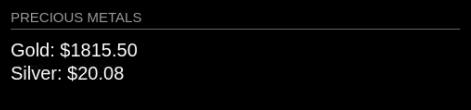
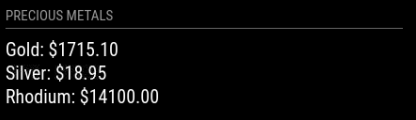
Add support for commodities

Changed region(s): [[0.0, 0.3273, 0.4062, 0.8727], [0.0, 0.0818, 1.0, 0.2727]]

diff --git a/MMM-PreciousMetals.js b/MMM-PreciousMetals.js
@@ -14,8 +14,11 @@ Module.register("MMM-PreciousMetals", {
 	},
 	
 	start: function() {
-		this.url = 'https://api.metals.live/v1/spot';
-        this.prices = [];
+		this.baseUrl = 'https://api.metals.live';
+		this.metalsUrl = '/v1/spot';
+		this.commoditiesUrl = '/v1/spot/commodities';
+        this.metals = {};
+        this.commodities = {};
 		// get initial prices
 		this.getPrices();
 		// schedule updates every updateInterval
@@ -41,23 +44,43 @@ Module.register("MMM-PreciousMetals", {
 		var count = 0;
 		
 		// Parse through the prices of each item.
-		this.prices.forEach(obj => {			
-			Object.entries(obj).forEach(([key, value]) => {
-				// TODO: Make metal list into object, so it is sortable
-				// Only show item is it's in the list
-				if(this.config.metals.includes(key)) {
-					// Line break after each new item
-					if(count > 0) {
-						metalsHtml.innerHTML = metalsHtml.innerHTML + "<BR>";
+		if(this.metals.length > 0) {
+			this.metals.forEach(obj => {			
+				Object.entries(obj).forEach(([key, value]) => {
+					// Only show item is it's in the list
+					if(this.config.metals.includes(key)) {
+						// Line break after each new item
+						if(count > 0) {
+							metalsHtml.innerHTML = metalsHtml.innerHTML + "<BR>";
+						}
+						// Capitalize the name of the metal
+						var newKey = key[0].toUpperCase() + key.slice(1)
+						
+						metalsHtml.innerHTML = metalsHtml.innerHTML + newKey + ": $" + value;
+						count = count + 1;
 					}
-					// Capitalize the name of the metal
-					var newKey = key[0].toUpperCase() + key.slice(1)
-					
-					metalsHtml.innerHTML = metalsHtml.innerHTML + newKey + ": $" + value;
-					count = count + 1;
-				}
+				});
 			});
-		});
+		}
+		
+		if(this.commodities.length > 0) {
+			this.commodities.forEach(obj => {			
+				Object.entries(obj).forEach(([key, value]) => {
+					// Only show item is it's in the list
+					if(this.config.metals.includes(key)) {
+						// Line break after each new item
+						if(count > 0) {
+							metalsHtml.innerHTML = metalsHtml.innerHTML + "<BR>";
+						}
+						// Capitalize the name of the metal
+						var newKey = key[0].toUpperCase() + key.slice(1)
+						
+						metalsHtml.innerHTML = metalsHtml.innerHTML + newKey + ": $" + value;
+						count = count + 1;
+					}
+				});
+			});
+		}
 		
 		wrapper.appendChild(metalsHtml);
 		
@@ -66,7 +89,10 @@ Module.register("MMM-PreciousMetals", {
 	
 	getPrices: function() {
 		console.log(this.name + ": getting prices...");
-        this.sendSocketNotification("GET_METAL_PRICES", this.url);
+		newMetalsUrl = new URL(this.metalsUrl, this.baseUrl);
+        this.sendSocketNotification("GET_METAL_PRICES", newMetalsUrl);
+		newComUrl = new URL(this.commoditiesUrl, this.baseUrl);
+        this.sendSocketNotification("GET_COMMODITY_PRICES", newComUrl);
     },
 	
 	scheduleUpdate: function() {
@@ -77,8 +103,15 @@ Module.register("MMM-PreciousMetals", {
 	
 	socketNotificationReceived: function(notification, payload) {	
         if (notification === "METAL_PRICE_RESULTS") {
-            this.prices = payload;
+            this.metals = payload;
 			this.loaded = true;
+			console.log(this.name + ": metal prices received: " + payload.length);
+			this.updateDom();
+        }
+        else if (notification === "COMMODITY_PRICE_RESULTS") {
+            this.commodities = payload;
+			this.loaded = true;
+			console.log(this.name + ": commodity prices received: " + payload.length);
 			this.updateDom();
         }
     },

diff --git a/node_helper.js b/node_helper.js
@@ -12,7 +12,7 @@ module.exports = NodeHelper.create({
         console.log("Starting node_helper for: MMM-PreciousMetals");
     },
 
-    getPrices: function(url) {
+    getMetals: function(url) {
 		fetch(url).then(response => {
 			response.json().then(data => {
 				this.sendSocketNotification("METAL_PRICE_RESULTS", data);
@@ -21,11 +21,26 @@ module.exports = NodeHelper.create({
 			console.error(this.name + ' ERROR:', error);
 		}
     },
+    
+    getCommodities: function(url) {
+		console.log("MMM-PreciousMetals: commodity price URL: " + url);
+		fetch(url).then(response => {
+			response.json().then(comData => {
+				this.sendSocketNotification("COMMODITY_PRICE_RESULTS", comData);
+			})
+		}), error => {
+			console.error(this.name + ' ERROR:', error);
+		}
+    },
 
-    socketNotificationReceived: function(notification, payload) {
+    socketNotificationReceived: function(notification, url) {
         if (notification === "GET_METAL_PRICES") {
-			console.log("MMM-PreciousMetals: in helper. Getting prices...");
-            this.getPrices(payload);
+			console.log("MMM-PreciousMetals: in helper. Getting metals prices...");
+            this.getMetals(url);
         }
+		if (notification === "GET_COMMODITY_PRICES") {
+			console.log("MMM-PreciousMetals: in helper. Getting commodities prices...");
+            this.getCommodities(url);        
+		}
     }
 });

diff --git a/README.md b/README.md
@@ -26,8 +26,6 @@ git pull
 ## Limitations
 
 * Only handles US dollars (limitation of the API)
-* Only handles a few metals 
-    * Does not handle commodities supported by the API. Only supports metals listed under "spot"
 
 ## Using the module
 
@@ -53,7 +51,7 @@ modules: [
         header: 'Precious Metals',
         position: "top_right",
         config: {
-            metals: ["gold","platinum"],
+            metals: ["gold","platinum", "rhodium"],
             updateInterval: 30 * 60 * 1000 // every 30 minutes
         }
     }
@@ -64,14 +62,14 @@ modules: [
 
 |Option|Default|Description|Acceptible Values|
 |---|---|---|---|
-|`metals`|`["silver","gold"]`|An array of metals you would like to see prices of.| See list on https://api.metals.live/. Any item listed under "spot" is acceptable. |
+|`metals`|`["silver","gold"]`|An array of metals you would like to see prices of.| See list on https://api.metals.live/. Any item listed under "spot" or "commodi
+" is acceptable. |
 |`updateInterval` | `60 * 60 * 1000` | How often to update prices - in milliseconds. Default is 1 hour. | Any integer. However, be careful when using low numbers |
 
 ## Future Improvements / Enhancements
 
 Future Ideas:
 
-* Support for commodities
 * Support for custom sorting of values (alphabetical by name, or sorted by value)
 
 ## Community Support
